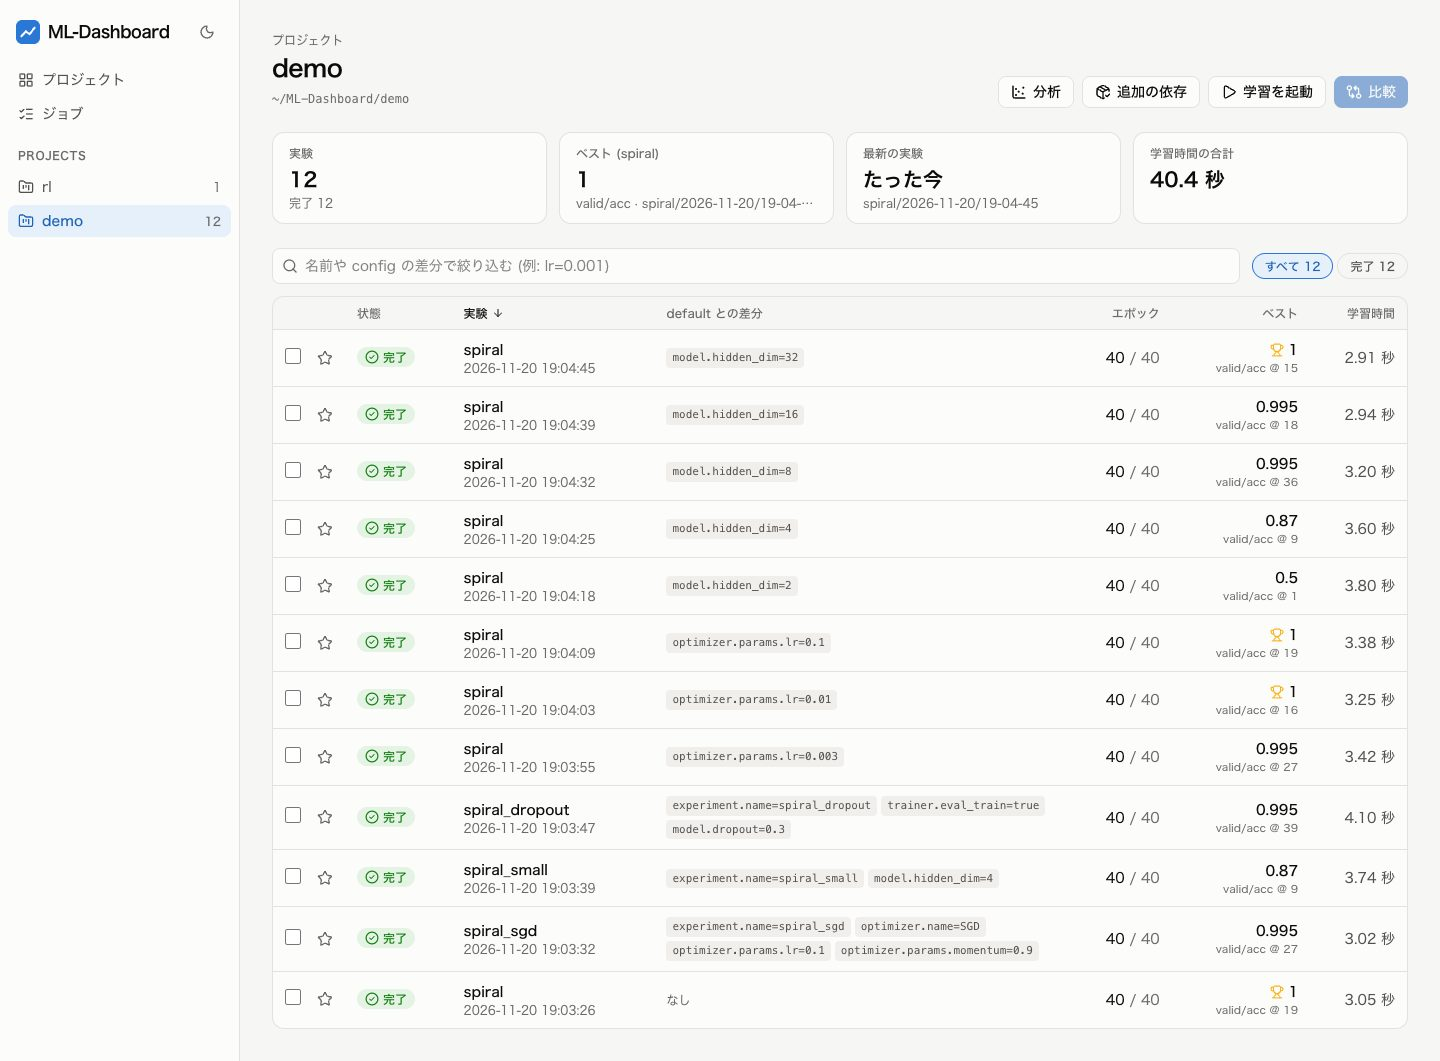
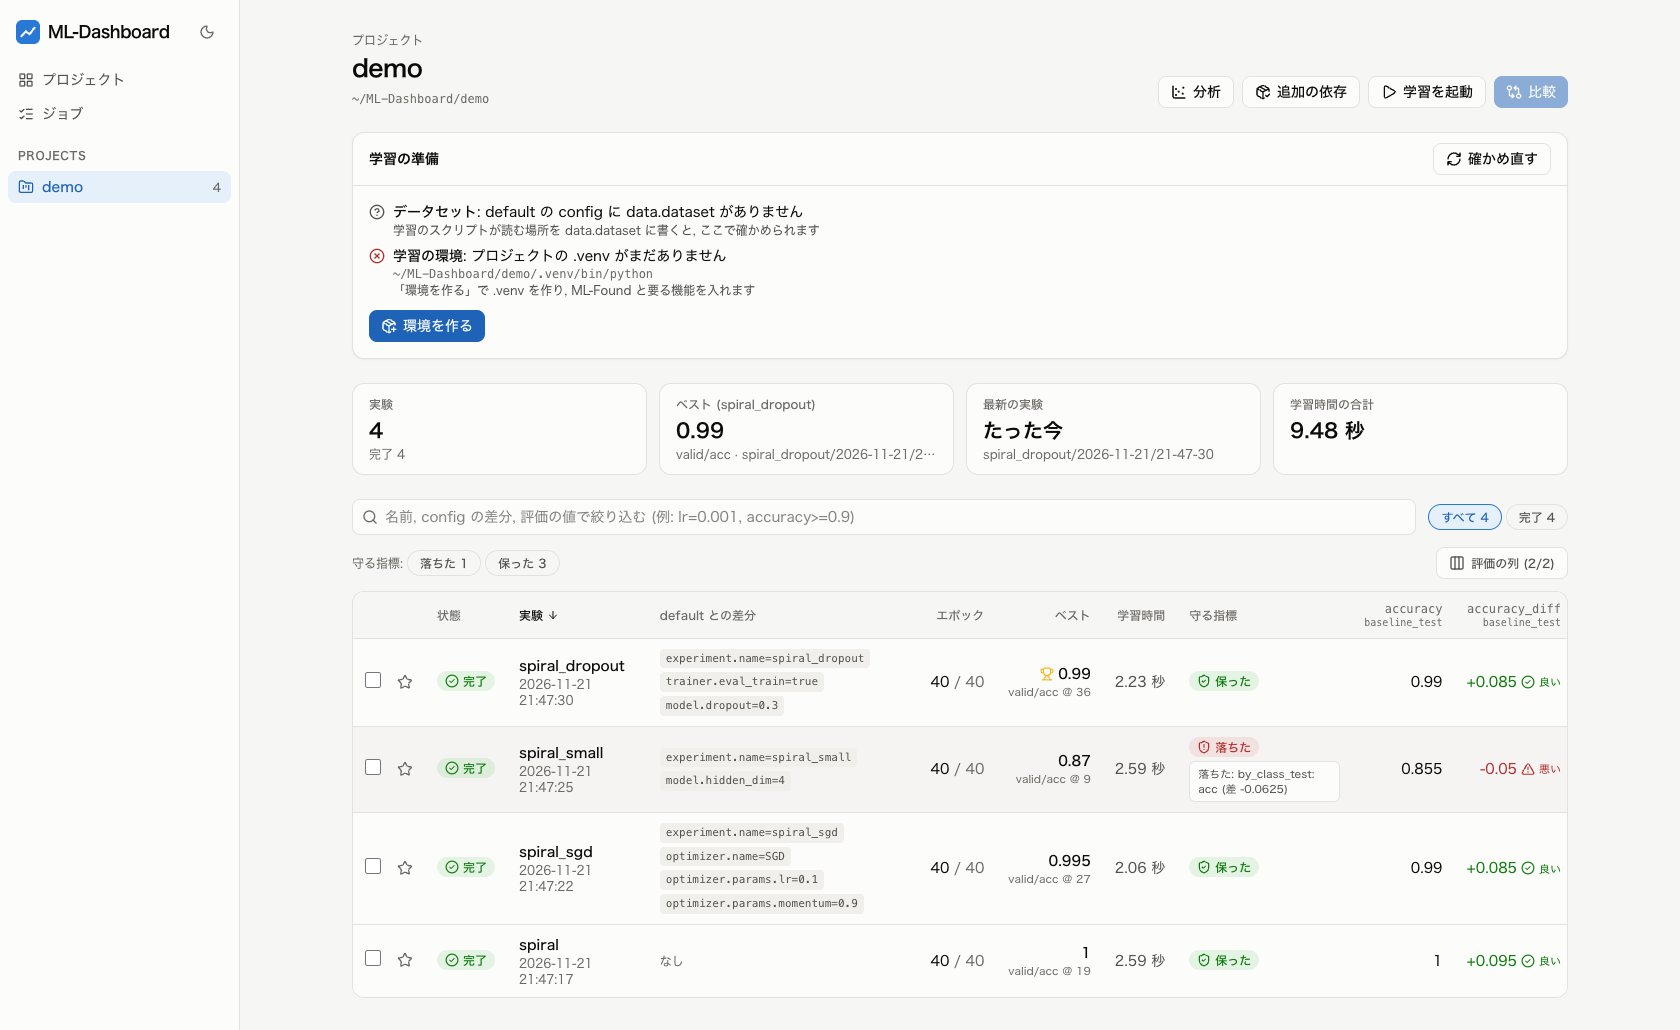
画面の図の撮り方を足し, 一覧と比較の図に評価の列を写して TODO から項目を消す

diff --git a/frontend/e2e/screenshots.ts b/frontend/e2e/screenshots.ts
@@ -1,0 +1,100 @@
+// README と操作ガイドの画面の図 (実験の一覧と比較) を撮る. e2e/screenshots.sh が
+// デモの実験を作ってダッシュボードを起動してから, node で動かす
+import os from 'node:os'
+import path from 'node:path'
+
+import { chromium } from '@playwright/test'
+
+const baseURL = process.env.SHOTS_URL ?? 'http://127.0.0.1:8792'
+const token = process.env.SHOTS_TOKEN ?? 'shots-token'
+const demoDir = process.env.SHOTS_DEMO ?? ''
+const imagesDir = path.resolve(import.meta.dirname, '..', '..', 'docs', 'images')
+// 図に出すプロジェクトの場所 (作業用のディレクトリの場所を図に写さないため)
+const shownDir = '~/ML-Dashboard/demo'
+
+interface Run {
+  id: string
+  name: string
+  started_at: string | null
+}
+
+const browser = await chromium.launch({ channel: process.env.CI ? undefined : 'chrome' })
+const context = await browser.newContext({
+  baseURL,
+  viewport: { width: 1440, height: 900 },
+  colorScheme: 'light',
+  extraHTTPHeaders: { 'x-dashboard-token': token },
+})
+const page = await context.newPage()
+
+// デモのプロジェクトを登録し (登録済みならそのまま), 実験を読む
+const listed = (await (await context.request.get('/api/projects')).json()) as {
+  id: string
+  path: string
+}[]
+let projectId = listed.find((project) => project.path === demoDir)?.id
+if (!projectId) {
+  const created = await context.request.post('/api/projects', { data: { path: demoDir } })
+  projectId = ((await created.json()) as { id: string }).id
+}
+const runs = (await (await context.request.get(`/api/projects/${projectId}/runs`)).json()) as Run[]
+
+/** 作業用のディレクトリの場所を, 図に出す場所に置き換える */
+async function hidePaths(): Promise<void> {
+  const home = demoDir.replace(os.homedir(), '~')
+  // ブラウザの中で動かす文 (e2e の型検査は DOM の型を持たないので文字で渡す)
+  const paths = JSON.stringify([demoDir, home])
+  await page.evaluate(`(() => {
+    const walker = document.createTreeWalker(document.body, NodeFilter.SHOW_TEXT)
+    for (let node = walker.nextNode(); node; node = walker.nextNode()) {
+      for (const item of ${paths}) {
+        if (node.textContent.includes(item))
+          node.textContent = node.textContent.replaceAll(item, ${JSON.stringify(shownDir)})
+      }
+    }
+  })()`)
+}
+
+/**
+ * 画面の中で縦に流れる部分ごと写るように, 窓の高さを中身に合わせる (画面は
+ * 窓の高さに収め, 中の部分を流すので, fullPage では下が写らないため)
+ */
+async function fitHeight(width: number): Promise<void> {
+  const height = (await page.evaluate(
+    `Math.max(...[...document.querySelectorAll('*')].map((element) => element.scrollHeight))`,
+  )) as number
+  await page.setViewportSize({ width, height: Math.max(900, height) })
+  // グラフを描き直す
+  await page.waitForTimeout(1000)
+}
+
+// 実験の一覧 (評価の列と守る指標の印. 落ちた実験の印は説明を開く). 評価の列が
+// 収まる幅にする
+await page.setViewportSize({ width: 1680, height: 900 })
+await page.goto(`/projects/${projectId}`)
+await page.getByRole('columnheader', { name: '守る指標' }).waitFor()
+await page.getByText('学習の準備を確かめています').waitFor({ state: 'hidden' })
+const dropped = page.getByRole('button', { name: '守る指標: 落ちた' })
+if ((await dropped.count()) > 0) await dropped.first().click()
+await hidePaths()
+await fitHeight(1680)
+await page.screenshot({ path: path.join(imagesDir, 'guide', 'runs.jpg'), quality: 85 })
+
+// 比較 (spiral, spiral_sgd, spiral_small の最新の実験)
+const picked = ['spiral', 'spiral_sgd', 'spiral_small'].map(
+  (name) => runs.find((run) => run.name === name)?.id,
+)
+if (picked.some((id) => !id)) throw new Error('spiral, spiral_sgd, spiral_small の実験がありません')
+const query = new URLSearchParams(picked.map((id): [string, string] => ['run', id!]))
+await page.setViewportSize({ width: 1440, height: 900 })
+await page.goto(`/projects/${projectId}/compare?${query.toString()}`)
+await page.getByRole('heading', { name: 'テスト用の評価' }).waitFor()
+await page
+  .getByRole('img', { name: /boundary/ })
+  .first()
+  .waitFor()
+await hidePaths()
+await fitHeight(1440)
+await page.screenshot({ path: path.join(imagesDir, 'compare.png') })
+
+await browser.close()

diff --git a/TODO.md b/TODO.md
@@ -17,12 +17,6 @@
 
 ## 優先度 低
 
-### 一覧と比較の評価の残り
-- 何を: 一覧と比較の評価 (DESIGN.md の 9 章「一覧と比較の評価」) の次の残りを直す. 1. 評価のファイルを開くときに入れ替わりを防ぐ (`O_NOFOLLOW` と `O_NONBLOCK` で開き, `fstat` で普通のファイルかを確かめ, 上限 + 1 バイトまでだけ読む. `evaluations/` は `dir_fd` で) 2. 覚えのない初めての一覧で, テスト用でない評価の行を作らない (`split` を先に見る) 3. 覚えた結果から消えた実験を除く 4. 中の `name` がファイルの名前と違う評価を除き, 注意の文に名前の決まりの話を足す 5. 守る指標の印の説明をキーボードとタッチでも見られるようにし, `title` と読み上げの二重をやめる (GUIDE.md の「印に指を置くと」も) 6. 比較の並べ替えを URL に残す 7. README と GUIDE.md の画面の図に評価の列を写す
-- なぜ: 実験のディレクトリに書ける人がリンクや FIFO に置き換えると, 確かめた後に読むファイルが替わるため. 実験が多く大きな曲線を持つと初めての一覧が重いため. 印の説明がマウスを置かないと見えないため
-- 終わりの条件: 7 つが直り, テストがある
-- つながり: ML-Found の「評価の読み込みでリンクと普通でないファイルを読まない」
-
 ### ML-Found の内部のモジュールを使わない
 - 何を: `backend/src/ml_dashboard/api/jobs.py` と `backend/src/ml_dashboard/core/results.py` が読み込む ML-Found の内部のモジュールをやめ, ML-Found の公開の関数 (`ml_found` と下のパッケージの `__all__` にある名前) だけを使う. 今使っている公開でない名前は, `ml_found.training.optim` の `named_views`, `uses_named_optimizers`, `resolve_optimizer_class`, `resolve_scheduler_class`, `check_optim_config`, `missing_data_size_params`, `try_build_optim`, `ml_found.training.registry` の `check_optim_params`, `check_param_values`, `ml_found.experiment.setup` の `check_name`, `check_resume_path`, `check_trainer_config`, `ml_found.config.loader` の `params_sections`, `parse_overrides`, `ml_found.experiment.results` の `read_samples_index`, `ml_found.rl.bundle` の `file_sha256`. 公開の名前を内部のモジュールから読んでいる所 (`load_config`, `get_device`, `describe_optimizers`, `load_task`, `load_samples`, `read_policy_spec` など) も公開の場所から読む
 - なぜ: 画面は自分の組のライブラリの公開の口だけを使う方針 (ML_tester の VISION.md の方針の柱 2) と食い違い, ML-Found の中のモジュールの名前や引数を変えると画面が壊れうる

diff --git a/README.md b/README.md
@@ -4,9 +4,9 @@
 
 ML-Found が実験ごとに残すディレクトリ (`history.csv`, `config.yaml`, `train.log` など) をそのまま読むので, 学習のコードに手を加えなくても, 既にある実験を見られる.
 
-![実験の比較: 3 つの実験の学習曲線を重ね, 同じエポックの決定境界の画像と config の違いを並べる](docs/images/compare.png)
+![実験の比較: 3 つの実験のテスト用の評価の値と守る指標の印を並べ, 学習曲線を重ね, 同じエポックの決定境界の画像と config の違いを並べる](docs/images/compare.png)
 
-**実験の比較**. 選んだ実験の学習曲線を指標ごとに重ね, 同じエポックの画像と config の違う項目を並べる.
+**実験の比較**. 選んだ実験のテスト用の評価の値と守る指標の印を並べ, 学習曲線を指標ごとに重ね, 同じエポックの画像と config の違う項目を並べる.
 
 <table>
   <tr>
@@ -82,6 +82,7 @@ make dev-frontend   # 画面 (http://localhost:5173, API に転送. ポートを
 make check          # lint, 型検査, テスト
 make e2e            # 画面の通しのテスト (Playwright). デモの実験を作ってからダッシュボードを起動して操作する
 make api            # バックエンドの API を変えたら, 画面の型を作り直す
+make screenshots    # README と操作ガイドの画面の図 (実験の一覧と比較) を撮り直す
 ```
 
 | ディレクトリ | 内容 |
